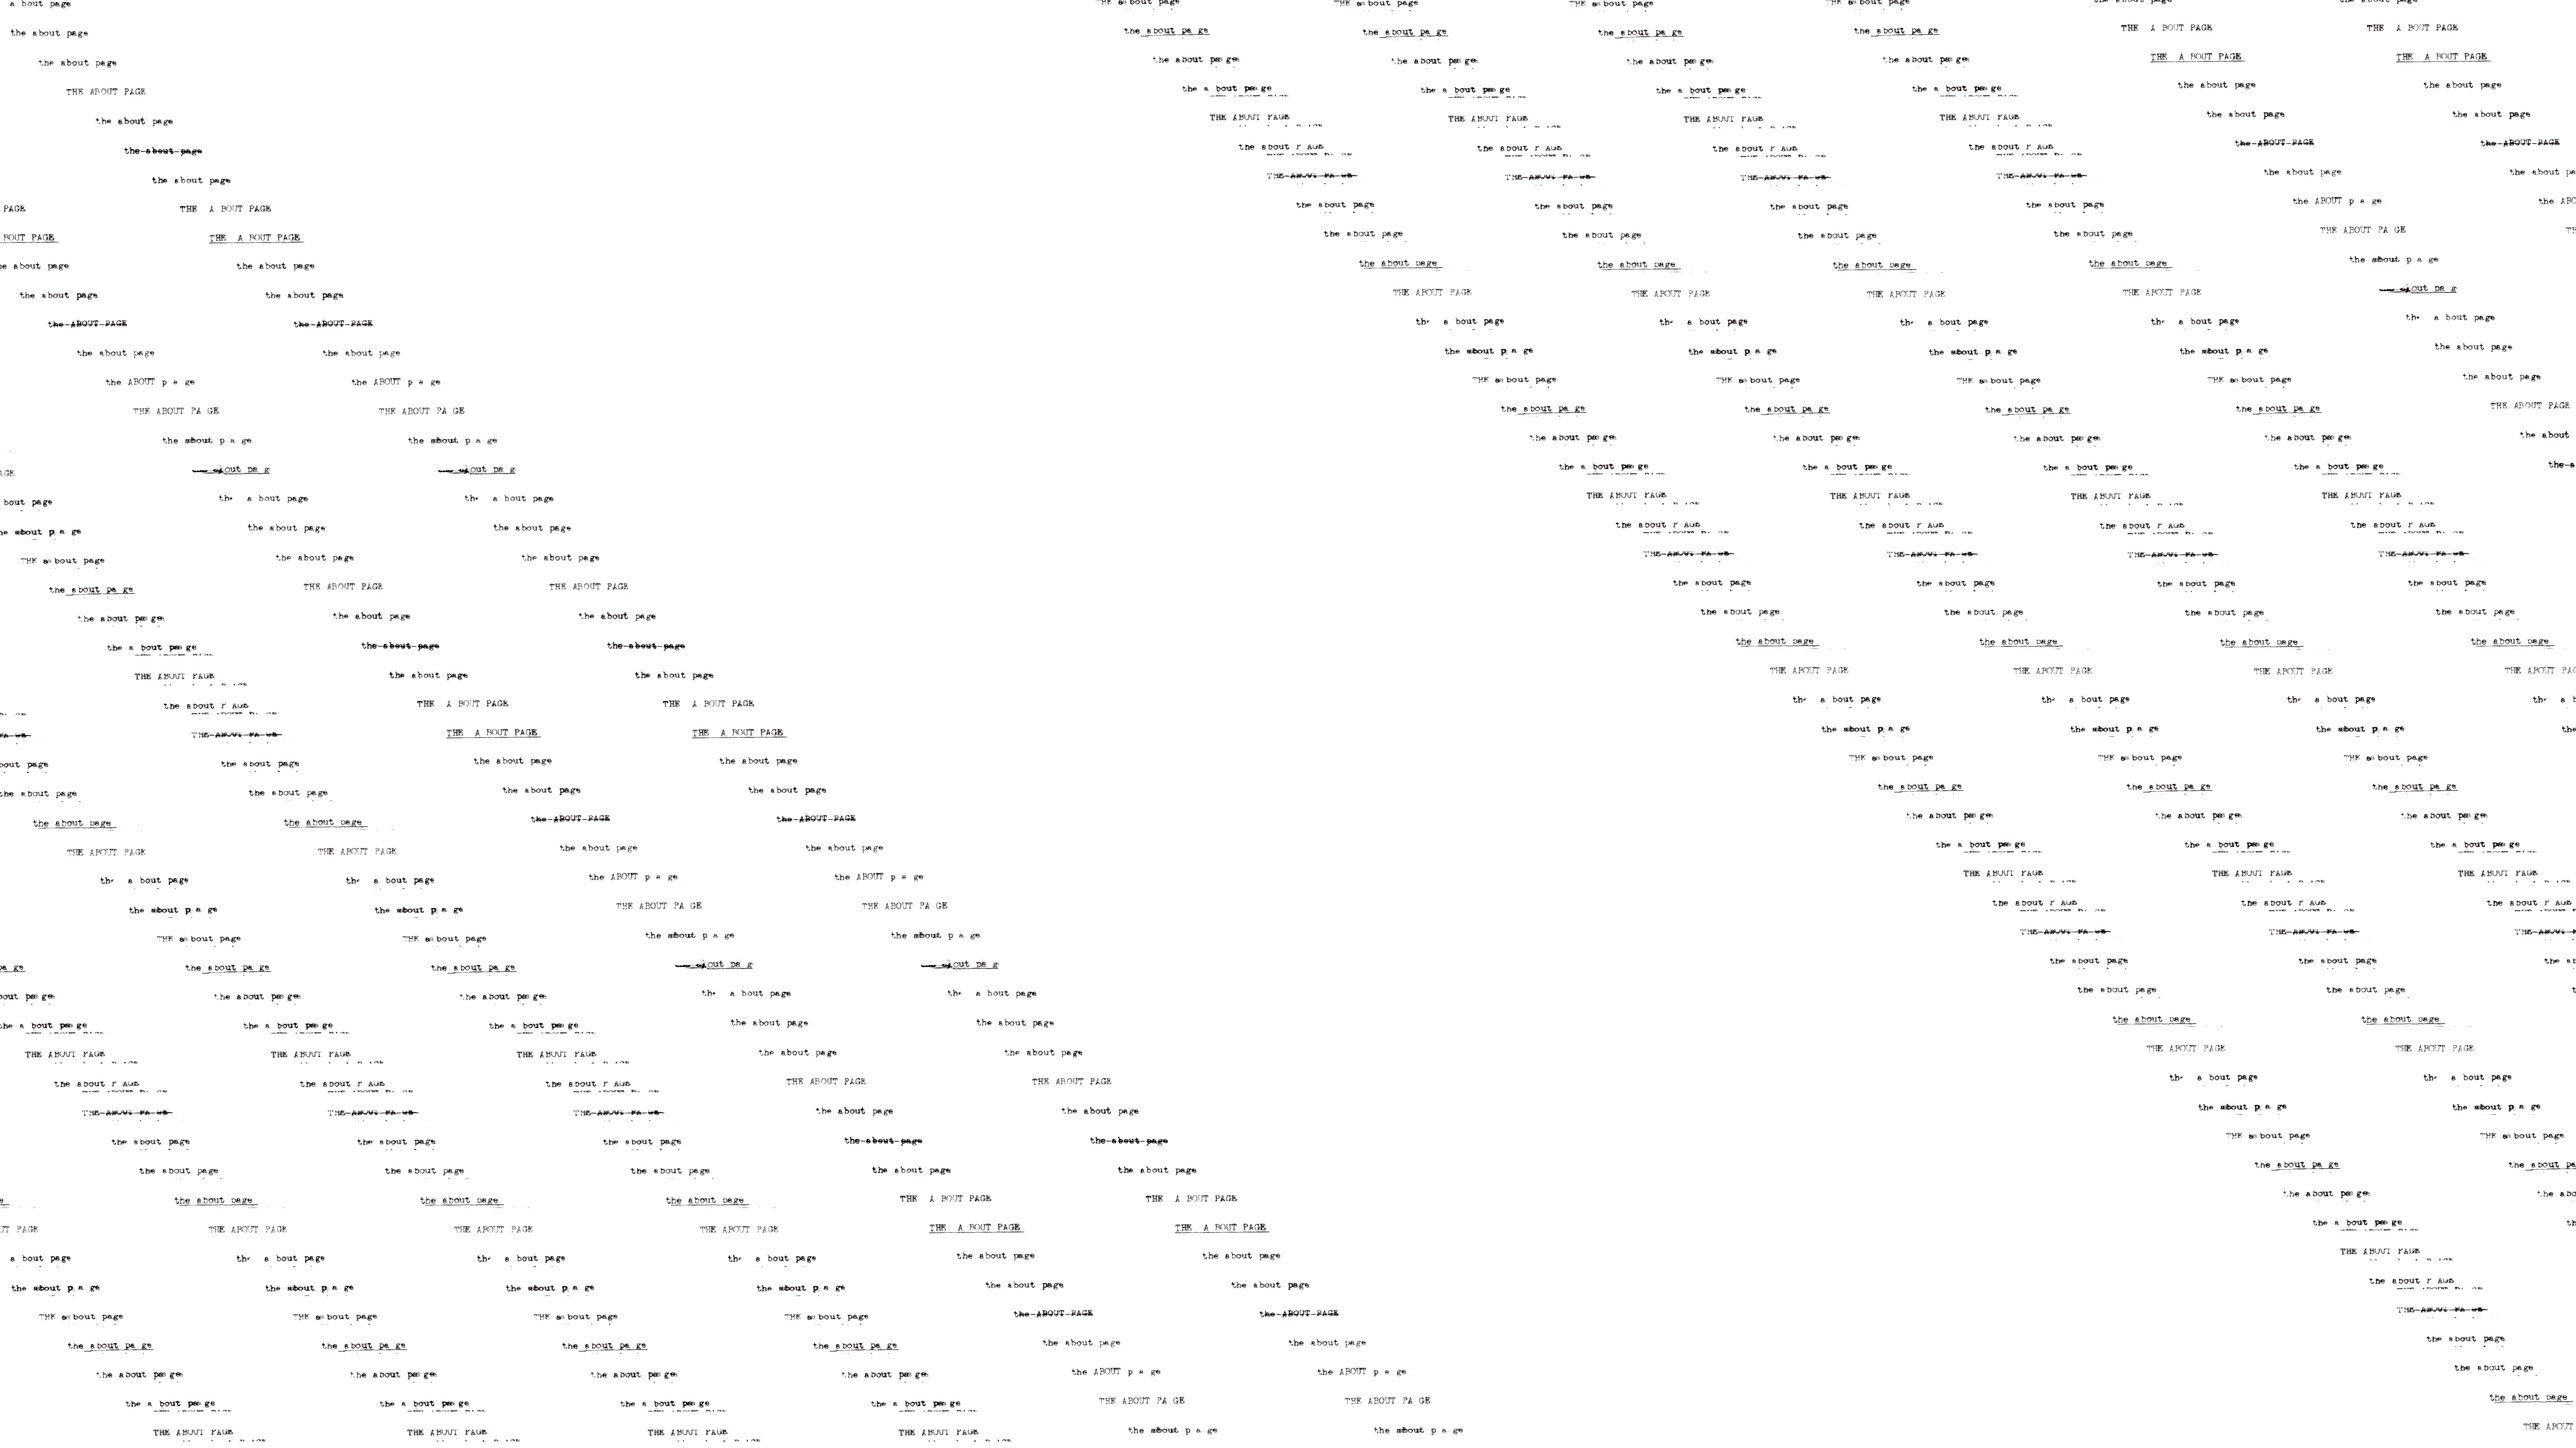
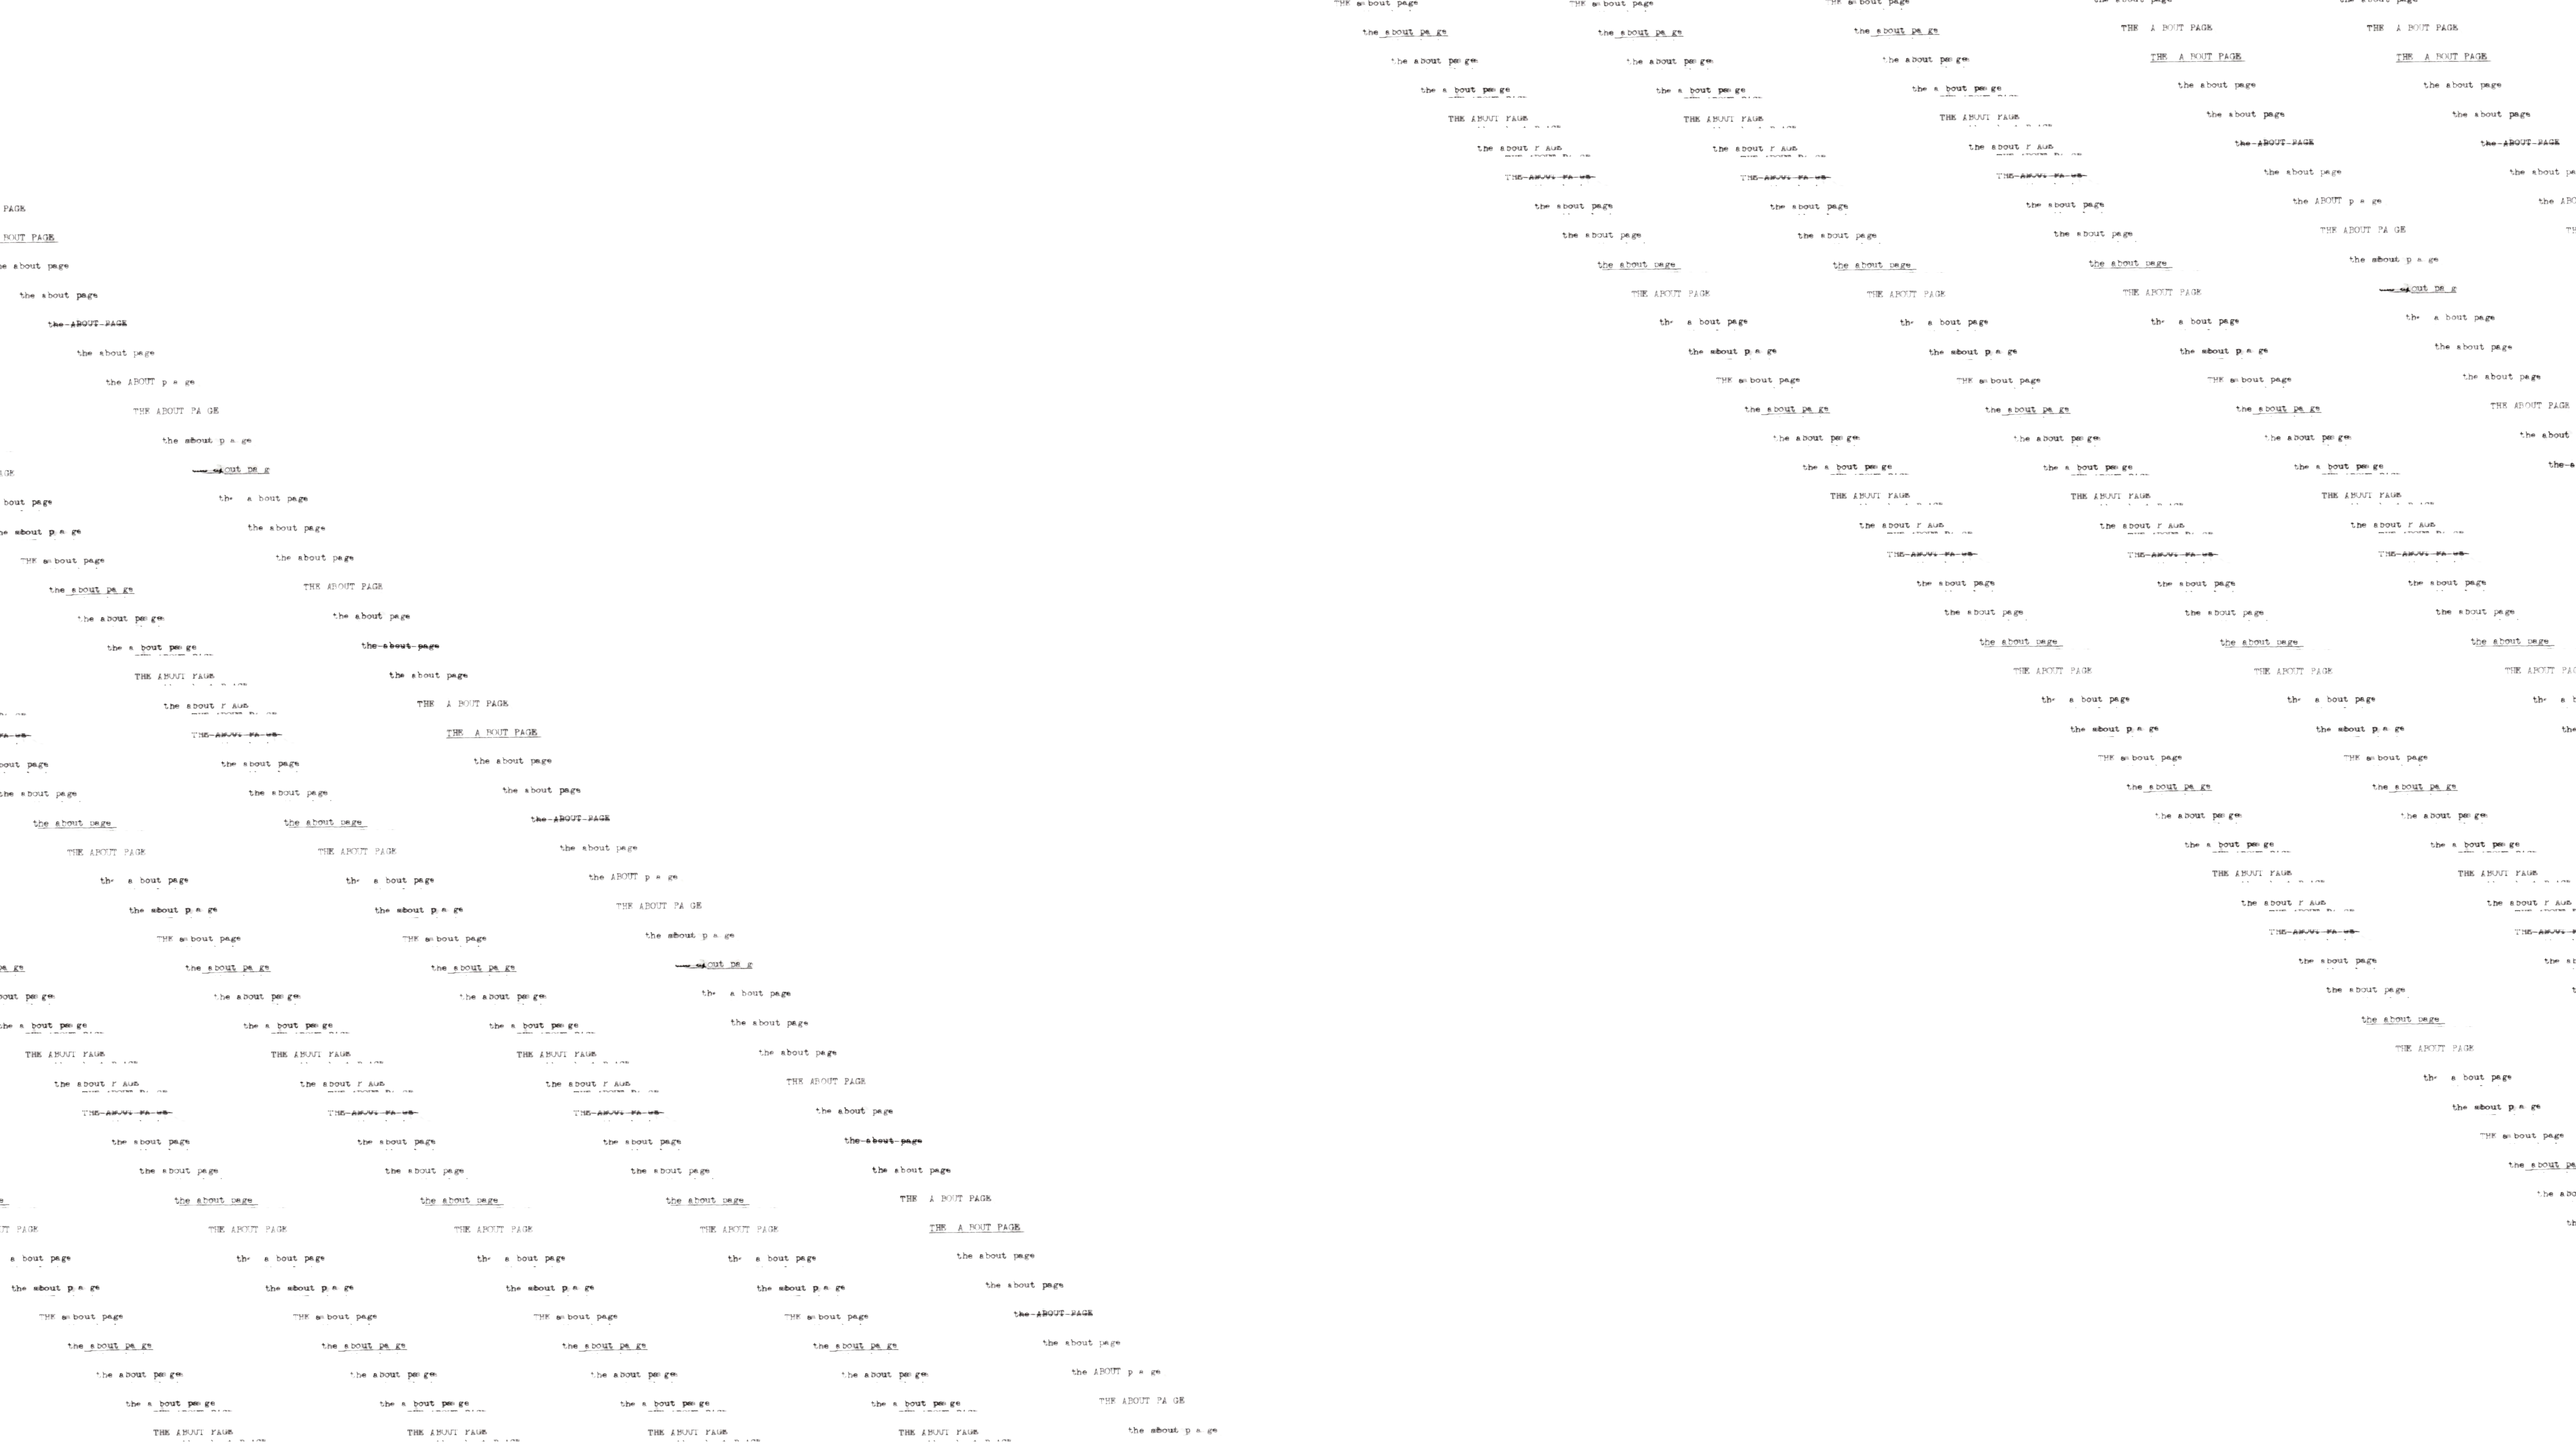
One less diagonal and greyer nav hover

diff --git a/styles/index.css b/styles/index.css
@@ -166,7 +166,7 @@ main > div {
   max-height: 100vh;
 }
 
-main.inverted {
+main {
   --brightness: 95%;
 }
 
@@ -233,7 +233,7 @@ main .nav-button {
 
 main .nav-button:hover {
   color: white;
-  filter: brightness(var(--brightness));
+  filter: brightness(calc(0.9 * var(--brightness)));
 }
 
 .image-a {
